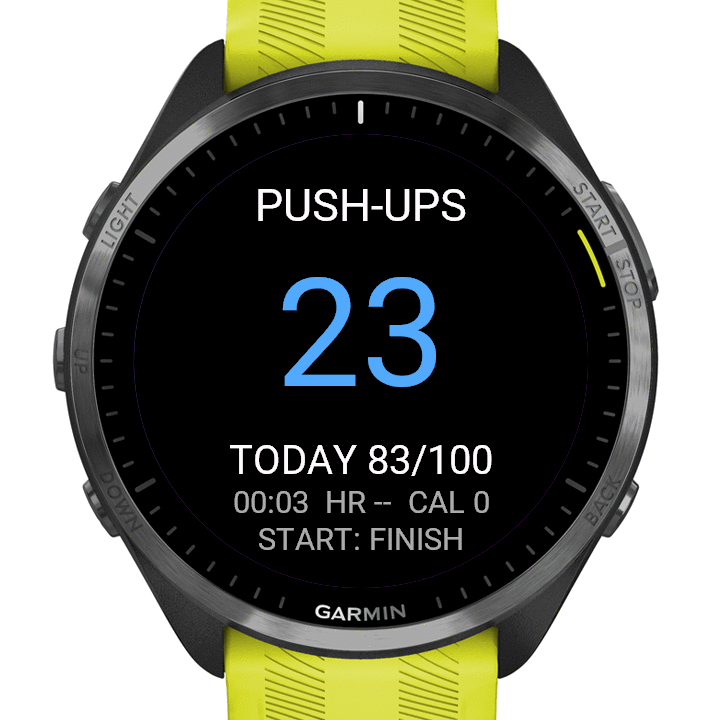
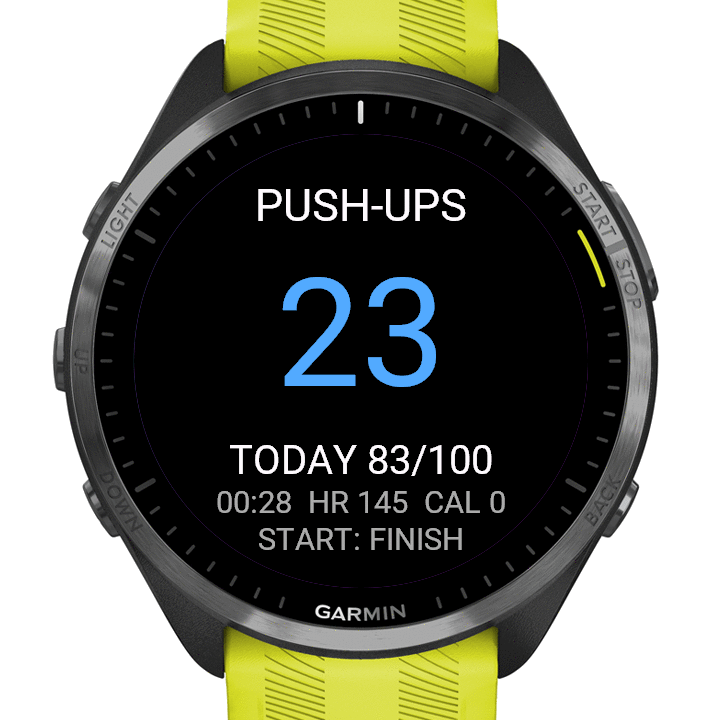
feat(HeroSet): listing screen 2 and hero show a simulated heart rate
Add sim_activity_data_start (Simulation > Activity Data > Start/play) to
docker/sim-gui.sh and an `act` argument to drive_screens.sh. The counting
screen now reads 00:28 HR 145; CAL stays 0 because the activity simulation
does not feed ActivityMonitor calories. Hero re-rendered; old files in old/.

Claude-Session: https://claude.ai/code/session_01VBnXC1zGyaFSzHFynsMi4H

Changed region(s): [[0.3056, 0.6722, 0.7028, 0.7333]]

diff --git a/HeroSet/listing/screenshots.md b/HeroSet/listing/screenshots.md
@@ -1,30 +1,32 @@
 # HeroSet listing images: how they are made
 
-Status 2026-10-04. All five screens, the hero, the cover and the two device icons were re-made from the 1.3.1 store build (`store.jungle`, `-r`) on this date. **Simulator only, not device proof**; simulator data is canned (the clock is faked to 2026-10-04 10:09, the reps are seeded). Looks are not yet approved by the owner. Upload order and one-line captions: [`paste.md`](paste.md) "Screen Images"; sizes: [`meta.yaml`](meta.yaml) `assets`.
+Status 2026-10-04 (screen 2 and the hero retaken later the same day with a heart rate). All five screens, the hero, the cover and the two device icons were re-made from the 1.3.1 store build (`store.jungle`, `-r`) on this date. **Simulator only, not device proof**; simulator data is canned (the clock is faked to 2026-10-04 10:09, the reps are seeded). Looks are not yet approved by the owner. Upload order and one-line captions: [`paste.md`](paste.md) "Screen Images"; sizes: [`meta.yaml`](meta.yaml) `assets`.
 
 ## The set
 
 | # | File | Device | State | Seed (push-ups, sit-ups, squats) |
 |---|---|---|---|---|
 | 1 | `screens-framed/1-dashboard.png` | fr965 | the home screen, rank 1, three bars, `NO STREAK YET` | 60, 45, 30 |
-| 2 | `screens-framed/2-counting.png` | fr965 | push-ups set, 23 counted, `TODAY 83/100` (`HR --`, see below) | 60, 45, 30 |
+| 2 | `screens-framed/2-counting.png` | fr965 | push-ups set, 23 counted, `TODAY 83/100`, `00:28 HR 145 CAL 0` (see below) | 60, 45, 30 |
 | 3 | `screens-framed/3-review.png` | fr965 | review: `DETECTED 23`, adjusted with UP to `+24`, `TODAY 84/100` | 60, 45, 30 |
 | 4 | `screens-framed/4-complete.png` | fr965 | `DAILY MISSION COMPLETE`, rank 2, `1 DAY STREAK` | 100, 100, 100 |
 | 5 | `screens-framed/5-instinct.png` | **instincte45mm** | the same dashboard in black and white, XP ring in the round window | 60, 45, 30 |
 
 Why these: the owner's story (2026-10-04): the one-glance home screen, counting a set, review and adjust, saved or complete, plus an Instinct. 4 is the complete state, not the `+N SAVED` one (the hero used that before; complete is the reward and the streak starts). The Instinct is the **Instinct E 45 mm**: the Instinct 2 family and Descent G1 are not on Garmin's paid-app product list, so the paid listing is not sold there and no caption names them. Of the three paid Instinct products, the E 45 mm had the boldest text and the most room (E 40 mm and 3 Solar were looked at too). Not used: the menu, the saved screen, a touch watch (the 5-image cap; the old Venu shot is in `old/`).
 
-Known weakness: shot 2 reads `HR --` and `CAL 0`. The container simulator feeds no heart rate (the 2026-09 shots, from the host simulator, showed 143). It is what the build draws with no sensor reading; do not use this picture to claim a live heart rate. A host-simulator re-take (needs the owner's OK, `docker/SIMULATOR.md`) would give a number.
+Shot 2 (retaken 2026-10-04): the heart rate is from the simulator's own activity simulation (Simulation > Activity Data > Start/play, `sim_activity_data_start` in `docker/sim-gui.sh`, run with the `act` argument below), so it reads `HR 145` (the simulated rate moved between 123 and 159 over the test runs; this take was kept because it is inside 90 to 150) and `00:28` elapsed (a 25 s wait after opening the set screen, so the clock does not read `00:00`). **`CAL 0` is still 0**: the activity simulation does not move `ActivityMonitor.getInfo().calories` (checked over 3 minutes), and typing a value into the Activity Monitor Info dialog is overwritten by the simulation, so the delta from the start of the set stays 0 and no number was invented. The heart rate is simulator data: do not use this picture to claim an accurate or live reading on a wrist. The earlier take (`HR --`) is in `old/screens-framed/2-counting-hr-none.png`, the earlier hero in `old/hero-1440x720-hr-none.png`.
 
 ## How the screens were made
 
 1. **Drive the app and photograph the whole simulator window** (display plus the device skin), one container run per device and state. The rep seed is patched into a private copy of the project (the repo is untouched); the clock is faked. From the repo root:
 
    ```sh
-   docker/capture.sh HeroSet tools/drive_screens.sh fr965 btn store.jungle 60,45,30 23 glance all       # 1 (1-dashboard), 2 (3-counting), 3 (5b-up)
+   docker/capture.sh HeroSet tools/drive_screens.sh fr965 btn store.jungle 60,45,30 23 glance all act   # 1 (1-dashboard), 2 (3-counting, with a heart rate), 3 (5b-up)
    docker/capture.sh HeroSet tools/drive_screens.sh fr965 btn store.jungle 100,100,100 23 glance home    # 4 (1-dashboard)
    docker/capture.sh HeroSet tools/drive_screens.sh instincte45mm btn store.jungle 60,45,30 23 glance home   # 5 (1-dashboard)
    ```
+
+   The last argument `act` starts the simulator's activity data after the dashboard (`sim_activity_data_start`; before the glance it disturbs the glance) and waits 25 s on the set screen. Without it the set screen reads `HR --`. The heart rate is random, so check the take and run again if it is outside 90 to 150 (two takes after 40 s read 156 and 159, hence the 25 s wait). Each run is about 4 minutes.
 
    Each step writes `HeroSet/bin/drive-<device>-<step>.png` (the display) and `...-window.png` (the whole window; added to `drive_screens.sh` on 2026-10-04). Copy the window files used into `listing/src/window/` under the names in the table (`fr965-1-dashboard.png`, `fr965-2-counting.png`, `fr965-3-review.png`, `fr965-4-complete.png`, `instincte45mm-5-dashboard.png`); those are the sources of the framed images. `ONLY=home` stops after the home screen.
 
@@ -44,14 +46,14 @@ Sources in `src/` (`hero.html`, `cover.html`, `icon.html`, `quantize64.py`); ren
 HeroSet/tools/render_listing.sh
 ```
 
-- `hero-1440x720.png`: logo mark, name, the promise line, and screens 1, 2 and 5 (the straps are faded out where the square cut them). No price, no accuracy claim.
+- `hero-1440x720.png`: logo mark, name, the promise line, and screens 1, 2 (the centre watch, the counting screen with `HR 145`) and 5 (the straps are faded out where the square cut them). No price, no accuracy claim.
 - `cover-500-designed.png`: shield and name only (it shows at about 100 px in browse).
 - `icon-24-128.png` and `icon-64-128.png`: the launcher icon's shield on black, 128x128; the 64-colour one is the 24-bit render snapped to Garmin's 64-colour palette (channels 00/55/AA/FF) by `src/quantize64.py`. The shield is the current pixel-grid launcher shape (`resources/drawables/launcher_icon.svg`), cropped to its bounds.
 
 ## Limits checked (2026-10-04)
 
-`stat` on the files, each under Garmin's cap: screens 89 to 113 KB (cap 150), cover 72 KB (cap 300), hero 360 KB (cap 2048); icons 1 and 2 KB; all pixel sizes read from the files (`file`, `identify`): 720x720 x5, 500x500, 1440x720, 128x128 x2. `frame_all.sh` also fails loudly on a screen over 150 KB.
+`stat` on the files, each under Garmin's cap: screens 90 to 113 KB (cap 150), cover 72 KB (cap 300), hero 360 KB (cap 2048); icons 1 and 2 KB; all pixel sizes read from the files (`file`, `identify`): 720x720 x5, 500x500, 1440x720, 128x128 x2. `frame_all.sh` also fails loudly on a screen over 150 KB.
 
 ## Honesty rules
 
-Real captures of the store build, never mock-ups; the display pixels are only resized (Instinct) with the skin; the background is the only thing removed. Simulator data is canned (the seeded reps, the clock, no heart rate). No price number in any image. Nothing in an image claims accuracy, a wrist test, the Instinct 2 family, or a glance. The Instinct image shows one Instinct E 45 mm in the simulator: the Instinct claim waits for the store's device list ([`../docs/release-contract.md`](../docs/release-contract.md)).
+Real captures of the store build, never mock-ups; the display pixels are only resized (Instinct) with the skin; the background is the only thing removed. Simulator data is canned (the seeded reps, the clock, the simulated heart rate, calories 0). No price number in any image. Nothing in an image claims accuracy, a wrist test, the Instinct 2 family, or a glance. The Instinct image shows one Instinct E 45 mm in the simulator: the Instinct claim waits for the store's device list ([`../docs/release-contract.md`](../docs/release-contract.md)).

diff --git a/docker/SIMULATOR.md b/docker/SIMULATOR.md
@@ -1,6 +1,6 @@
 # Simulator: screenshots and automatic testing
 
-Status 2026-10-04. Everything here runs in a container (own simulator, nothing killed on the host), is **simulator only**, and is
+Status 2026-10-04 (heart rate: `sim_activity_data_start`). Everything here runs in a container (own simulator, nothing killed on the host), is **simulator only**, and is
 not device proof. Setup, images and the run scripts: [`README.md`](README.md).
 
 ## 1. How to get a screenshot from the emulator
@@ -27,6 +27,7 @@ A scenario is a bash file sourced inside the container after `docker/sim-gui.sh`
 - `sim_boot "2026-10-04 07:15:00"` starts the simulator on that clock (`faketime -f "@..."`: the clock runs on from there; a bare time freezes it and the app never loads). `TZ` does not reach the simulator.
 - `sim_load <jungle> <device> [monkeyc flags]` builds and runs; `LOAD_WAIT` (default 25 s). Devices with a glance (Instinct E, 3 Solar) open on the glance in the simulator.
 - `sim_activity goal=10000 steps=8420 moderate=18 floors=7 calories=1650 history=10000,10000,...` fills Simulation > Activity Monitoring > Set Activity Monitor Info (today's row; the dialog is placed by reading its window geometry). Faces that cache per minute need a ~75 s wait afterwards. The seven history rows did not produce a multi-day streak in HeroFace.
+- `sim_activity_data_start` Simulation > Activity Data > Start and play ("Data Source: Data Simulation"), then closes the dialog; the simulated activity keeps running and `Sensor.getInfo().heartRate` then returns a moving rate (about 120 to 160 in the HeroSet runs), and the dialog's timer, distance and calories count up. Without it the heart rate is `null` (an app reads `--`). Offsets are from the dialog's centre on the simulator window (489x393), retried three times because the menu click sometimes does not open it. Cautions: run it **after** the app is on the screen you want (done before the glance wake, the HeroSet glance did not open the app), and do not combine it with `sim_activity` on the same run: the Activity Monitor Info dialog's Calories value is overwritten by the simulation, and `ActivityMonitor.getInfo().calories` stayed 0 in the app for 3 minutes (HeroSet `CAL 0`). HeroSet: `docker/capture.sh HeroSet tools/drive_screens.sh fr965 btn store.jungle 60,45,30 23 glance all act`.
 - `sim_24h` switches Settings > Time Display to 24-hour (the simulator starts on 12-hour, and a face with no AM/PM reads 20:00 as 08:00).
 - `sim_save <file.png>` File > Save Screen Capture. It deletes an existing file first: a replace prompt would otherwise swallow the save and the old picture would stay.
 - Settings a user would change are set by editing the face's default `properties.xml` in the private copy (`set_prop Name "70.3"` with a `sed`, see `DaysToGo/tools/listing_shots.sh`). App data a user would produce is put in through the app's own code, patched in the private copy (HeroSet calls `HeroSetStore.add` once at start, `HeroSet/tools/listing_shots.sh`).
@@ -34,7 +35,7 @@ A scenario is a bash file sourced inside the container after `docker/sim-gui.sh`
 
 ### What the simulator's data is
 
-Weather (66 °F, 77/63, 10% rain), stress, Body Battery, heart rate, battery, the calendar event and sun times are **canned or random**. Never crop a screenshot into a claim about real readings, and do not use values the watch could not produce. Check each picture by eye before it goes anywhere: the scripted run proves the capture worked, not that the screen looks right (a replaced file, a face stuck on its glance, or a state that dropped a row all looked fine to the script).
+Weather (66 °F, 77/63, 10% rain), stress, Body Battery, heart rate (none until `sim_activity_data_start`, then simulated), battery, the calendar event and sun times are **canned or random**. Never crop a screenshot into a claim about real readings, and do not use values the watch could not produce. Check each picture by eye before it goes anywhere: the scripted run proves the capture worked, not that the screen looks right (a replaced file, a face stuck on its glance, or a state that dropped a row all looked fine to the script).
 
 ### Existing scenarios
 

diff --git a/HeroSet/listing/NOTES.md b/HeroSet/listing/NOTES.md
@@ -29,7 +29,7 @@ Saved page, 2026-09-19: Title 50, Description 4000, What's New 4000, App Version
 | App Version | Free text, not read from the manifest; bump on every upload (patch for fixes, minor for features). 1.1.1 live ([ADR-050](../docs/decisions.md#adr-050)); the glance build ([ADR-051](../docs/decisions.md#adr-051)) was submitted as **1.2.0**, not the 1.1.2 it was called during development ([ADR-053](../docs/decisions.md#adr-053)); Connect sync (1.3.0) is shelved, [ADR-054](../docs/decisions.md#adr-054). |
 | Collects user data | No: the store build has no network access, no activity recording, no sync ([ADR-033](../docs/decisions.md#adr-033)). The privacy policy is still linked (gate 6). |
 | Cover Image | Shield + name only: it shows at about 100 px in browse, so no screen text. |
-| Screen Images | Simulator captures of the store build ([ADR-039](../docs/decisions.md#adr-039)), no mockups; the app's own pixels are never altered. Re-taken 2026-10-04 (the UI had changed since 2026-09-27; the old ones are in `old/`): five images, the story home screen, counting, review and adjust, mission complete, plus one Instinct. Chassis+strap style: the whole simulator window cropped to the skin, 720², background keyed to transparent (flood fill from the corners), 256 colours to stay under the 150 KB cap: the only post-capture edit, cosmetic only. The Instinct image is an **Instinct E 45 mm** because the Instinct 2 family and Descent G1 are not on Garmin's paid-app product list (a paid listing is not sold there), and the caption names no Instinct 2 watch. The seeded reps (60/45/30, 100/100/100) are put in through the app's own store, the day and time are the simulator's canned ones. The counting screen reads `HR --`: the container simulator feeds no heart rate (the 2026-09 shots, taken on the host simulator, showed 143), so it is what the build draws with no sensor; do not claim live HR from this picture. If a shot shows a changed UI, re-take it and update the site copy in `../../site/public/heroset/screens/`. How, with commands: [`screenshots.md`](screenshots.md). |
+| Screen Images | Simulator captures of the store build ([ADR-039](../docs/decisions.md#adr-039)), no mockups; the app's own pixels are never altered. Re-taken 2026-10-04 (the UI had changed since 2026-09-27; the old ones are in `old/`): five images, the story home screen, counting, review and adjust, mission complete, plus one Instinct. Chassis+strap style: the whole simulator window cropped to the skin, 720², background keyed to transparent (flood fill from the corners), 256 colours to stay under the 150 KB cap: the only post-capture edit, cosmetic only. The Instinct image is an **Instinct E 45 mm** because the Instinct 2 family and Descent G1 are not on Garmin's paid-app product list (a paid listing is not sold there), and the caption names no Instinct 2 watch. The seeded reps (60/45/30, 100/100/100) are put in through the app's own store, the day and time are the simulator's canned ones. The counting screen reads `HR 145` and `CAL 0`: the heart rate is the simulator's own activity simulation (Simulation > Activity Data), calories stay 0 there; it is simulator data, do not claim a live or accurate reading from this picture. If a shot shows a changed UI, re-take it and update the site copy in `../../site/public/heroset/screens/`. How, with commands: [`screenshots.md`](screenshots.md). |
 | Email | The dedicated support address, also on the site's support and privacy pages. |
 | App Migration | No: support is an explicit list of products (80 live, 87 from 1.3.0; [`../docs/compatibility.md`](../docs/compatibility.md), [ADR-034](../docs/decisions.md#adr-034)/[035](../docs/decisions.md#adr-035)/[037](../docs/decisions.md#adr-037)/[038](../docs/decisions.md#adr-038)/[048](../docs/decisions.md#adr-048)); don't let the store add untested devices. |
 | Monetization | Paid through the store. |
